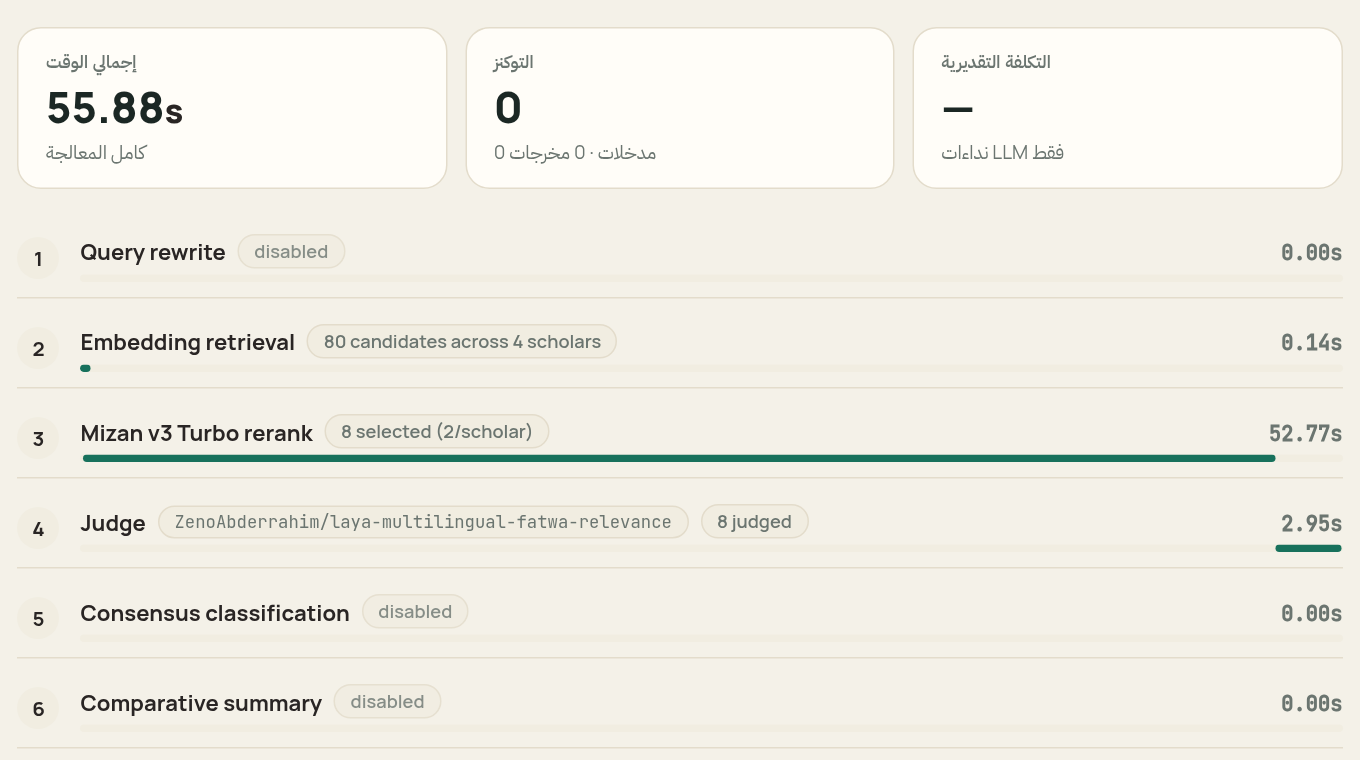
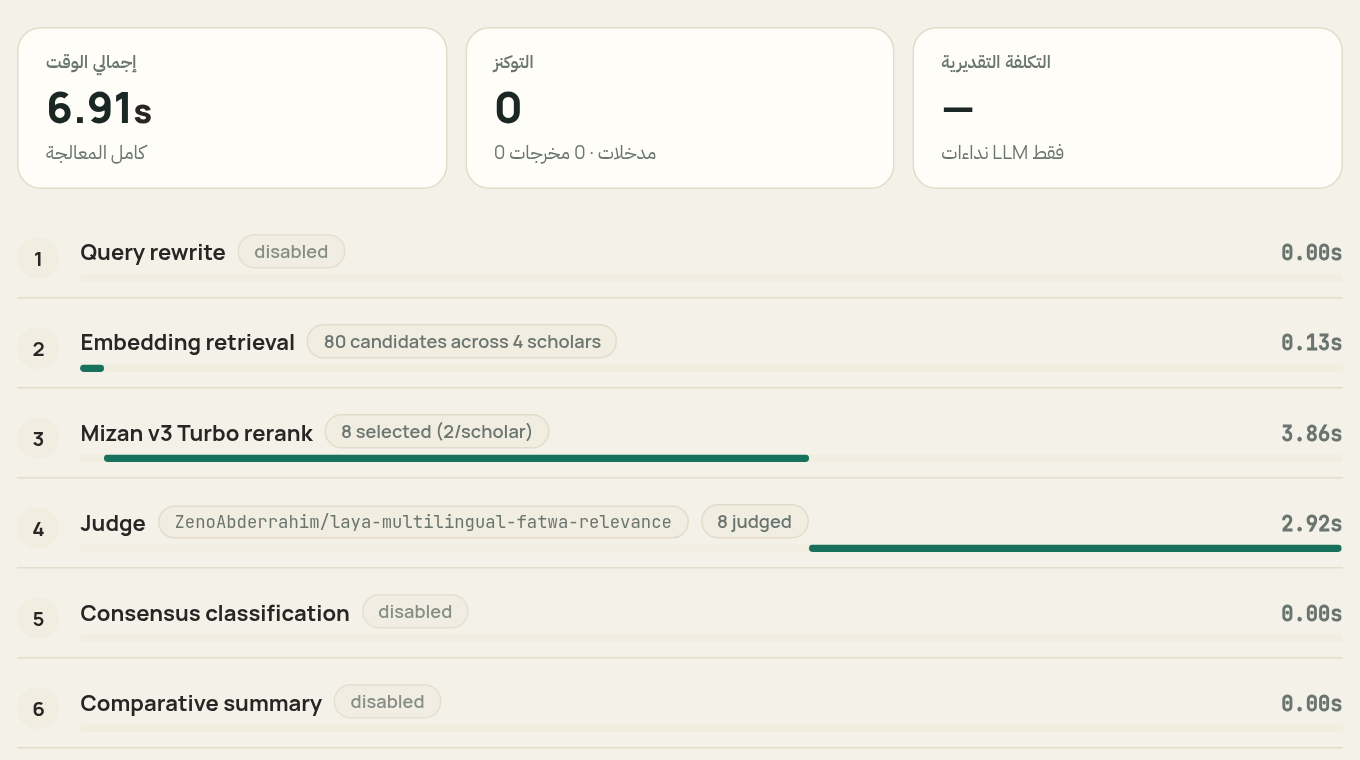
Run the reranker in fp32 on pre-Volta GPUs
fp16 is several times slower than fp32 on Pascal cards such as the
GTX 1050 (62 pairs: 35 s vs 5 s). Use fp16 only on compute capability
7.0+, and batch size 4 on GPUs under 6 GB so fp32 still fits next to
the Laya judge. A per-scholar search on a GTX 1050 drops from ~56 s
to ~7 s, with the same verdicts on the test query.

diff --git a/app.py b/app.py
@@ -102,6 +102,7 @@ RERANKER_MODEL_NAME = "ALJIACHI/Mizan-Rerank-v3-Turbo"
 EMBEDDER_MAX_SEQ_LENGTH = 1024
 RERANKER_MAX_LENGTH = 2048
 RERANKER_BATCH_SIZE = 16
+RERANKER_SMALL_GPU_BATCH_SIZE = 4  # GPUs under 6 GB
 
 # ModernBERT compatibility on older GPUs (Pascal capability < 7.0 such as GTX 1050/1060)
 if hasattr(torch, "_dynamo"):
@@ -900,9 +901,18 @@ class FatwaApp:
         self.embedder.max_seq_length = EMBEDDER_MAX_SEQ_LENGTH
 
         print(f"Loading reranker ({RERANKER_MODEL_NAME}) on {settings.device_reranker}...")
-        # fp16 on CUDA halves the reranker's memory, which lets it share a
-        # 3 GB laptop GPU with the Laya judge.
-        reranker_kwargs = {"dtype": torch.float16} if settings.device_reranker == "cuda" else {}
+        # fp16 only where the GPU has fast half-precision math (compute capability
+        # 7.0+, e.g. T4). Pascal cards like the GTX 1050 run fp16 far slower than
+        # fp32 (measured: 35 s vs 5 s for 62 pairs), so they stay in fp32 and use
+        # a small batch to fit next to the Laya judge on a 3 GB card.
+        reranker_kwargs = {}
+        self.reranker_batch_size = RERANKER_BATCH_SIZE
+        if settings.device_reranker == "cuda" and torch.cuda.is_available():
+            props = torch.cuda.get_device_properties(0)
+            if props.major >= 7:
+                reranker_kwargs = {"dtype": torch.float16}
+            if props.total_memory < 6 * 1024**3:
+                self.reranker_batch_size = RERANKER_SMALL_GPU_BATCH_SIZE
         self.reranker = CrossEncoder(
             RERANKER_MODEL_NAME,
             max_length=RERANKER_MAX_LENGTH,
@@ -1441,7 +1451,7 @@ class FatwaApp:
 
     def _predict_with_oom_retry(self, pairs: list[list[str]]):
         """Rerank, halving the batch size on CUDA out-of-memory instead of failing the search."""
-        batch_size = RERANKER_BATCH_SIZE
+        batch_size = self.reranker_batch_size
         while True:
             try:
                 with torch.inference_mode():

diff --git a/README.md b/README.md
@@ -16,7 +16,7 @@ A retrieval pipeline over **39,646 Arabic fatwas** from four major Saudi scholar
     <td width="32%" valign="top"><img src="docs/images/demo-settings.png" alt="Settings drawer"></td>
   </tr>
   <tr>
-    <td valign="top"><b>Pipeline tab</b>: per-stage timings for the same query. The 53 s rerank comes from running on a 3 GB GTX 1050 laptop GPU (80 long fatwas, up to 2,048 tokens each), a hardware limit rather than a property of the pipeline.</td>
+    <td valign="top"><b>Pipeline tab</b>: per-stage timings for the same query: about 7 s end to end on a 3 GB GTX 1050 laptop GPU, reranking 80 candidates (20 per scholar).</td>
     <td valign="top"><b>Settings</b>: the local judge is on by default; cloud LLM features are off until you enable them.</td>
   </tr>
 </table>
@@ -192,7 +192,7 @@ On first launch, `app.py` downloads the corpus and embeddings (~170 MB) from the
 | Model | Params | Approx. VRAM |
 | :--- | :---: | :---: |
 | Qwen3-Embedding-0.6B | 0.6B | ~2.8 GB |
-| Mizan-Rerank-v3-Turbo | 149M | ~0.3 GB (fp16 on GPU) |
+| Mizan-Rerank-v3-Turbo | 149M | ~0.6 GB weights in fp32, ~1 GB peak at batch 4 (fp16 on newer GPUs) |
 | Laya fatwa-relevance judge | 322M | ~1.3 GB |
 
 ```bash

diff --git a/docs/architecture.md b/docs/architecture.md
@@ -88,5 +88,5 @@ When multiple scholars' fatwas are retrieved, users frequently want to know: *Do
 ## 5. Hardware & Scalability
 
 - **Unified In-Memory Index:** At ~40K × 1,024 floats, the normalized float32 embedding matrix is about 160 MB. A single matrix multiply over it takes milliseconds, so an external vector database would add complexity without a speed benefit at this scale.
-- **Reranker Memory Footprint:** `ALJIACHI/Mizan-Rerank-v3-Turbo` (149M-parameter ModernBERT) runs in fp16 on GPU (roughly 0.3 GB), so it fits next to the Laya judge on a 3 GB laptop GPU such as a GTX 1050.
+- **Reranker Memory Footprint:** `ALJIACHI/Mizan-Rerank-v3-Turbo` (149M-parameter ModernBERT) runs in fp16 on GPUs with fast half precision (compute capability 7.0+, e.g. T4). Older cards such as the GTX 1050 run fp16 several times slower than fp32, so there it stays in fp32 (~0.6 GB of weights) with a batch size of 4 (~1 GB peak), which still fits next to the Laya judge on a 3 GB card.
 - **Graceful Asset Fallback:** The application seamlessly falls back to the Bin Baz base corpus if the new multi-scholar `.pt` embeddings have not yet been downloaded, ensuring zero-downtime development and testing.
